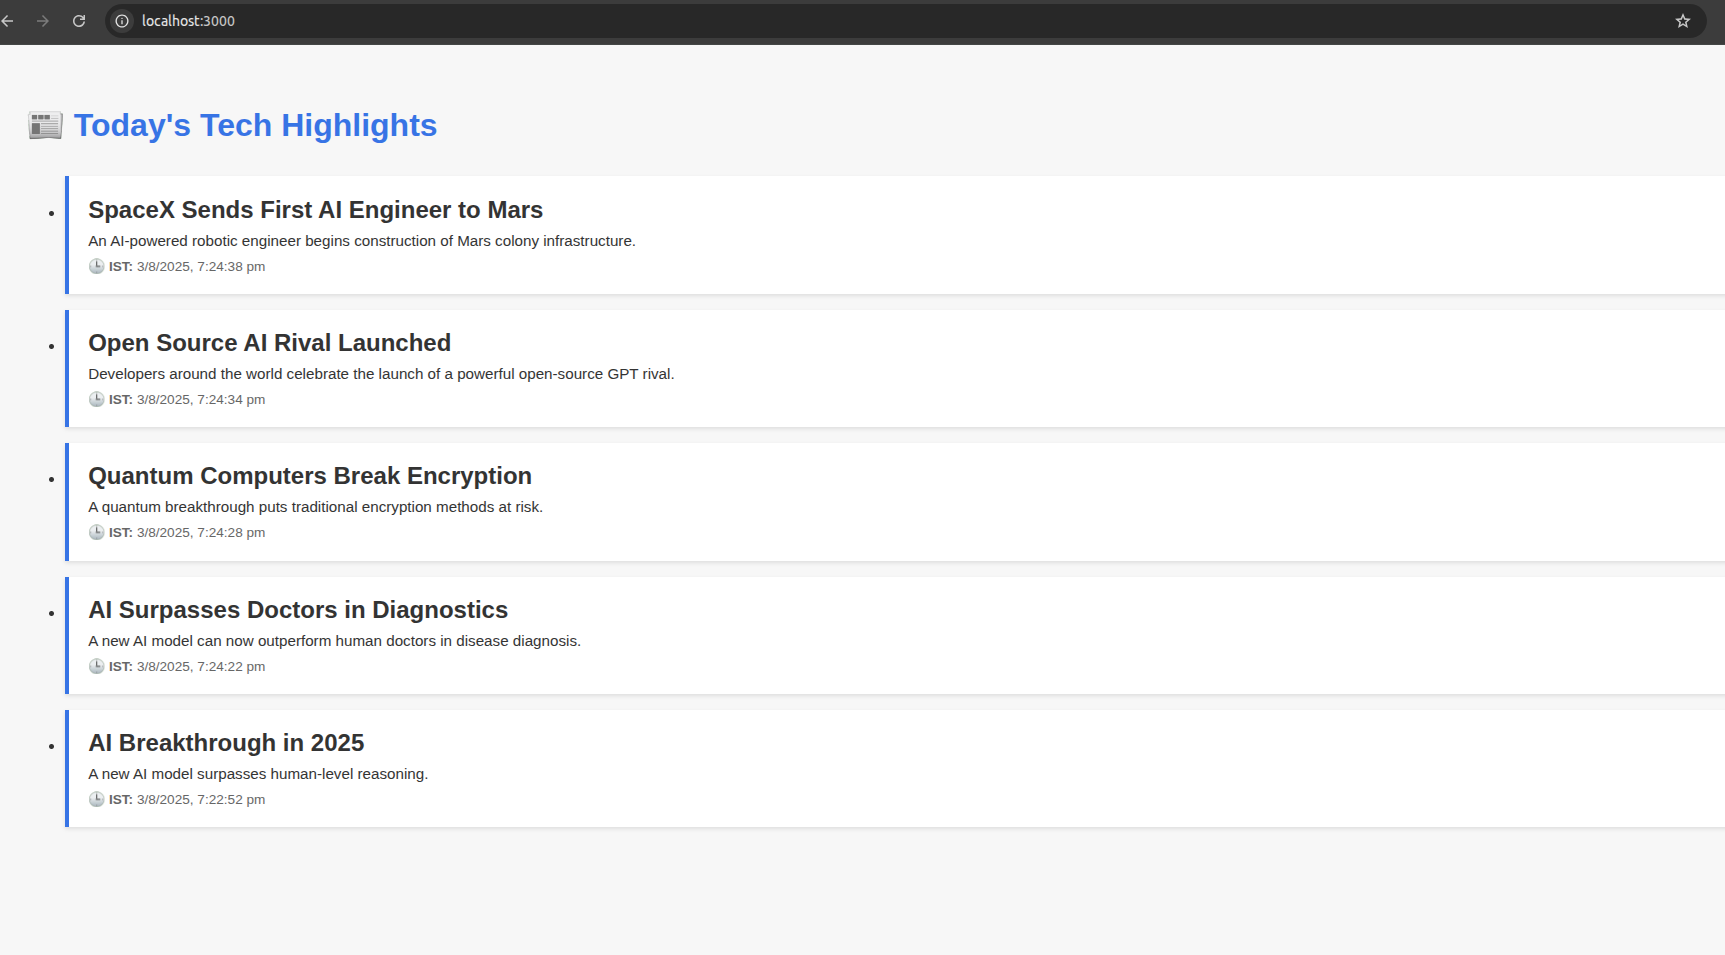
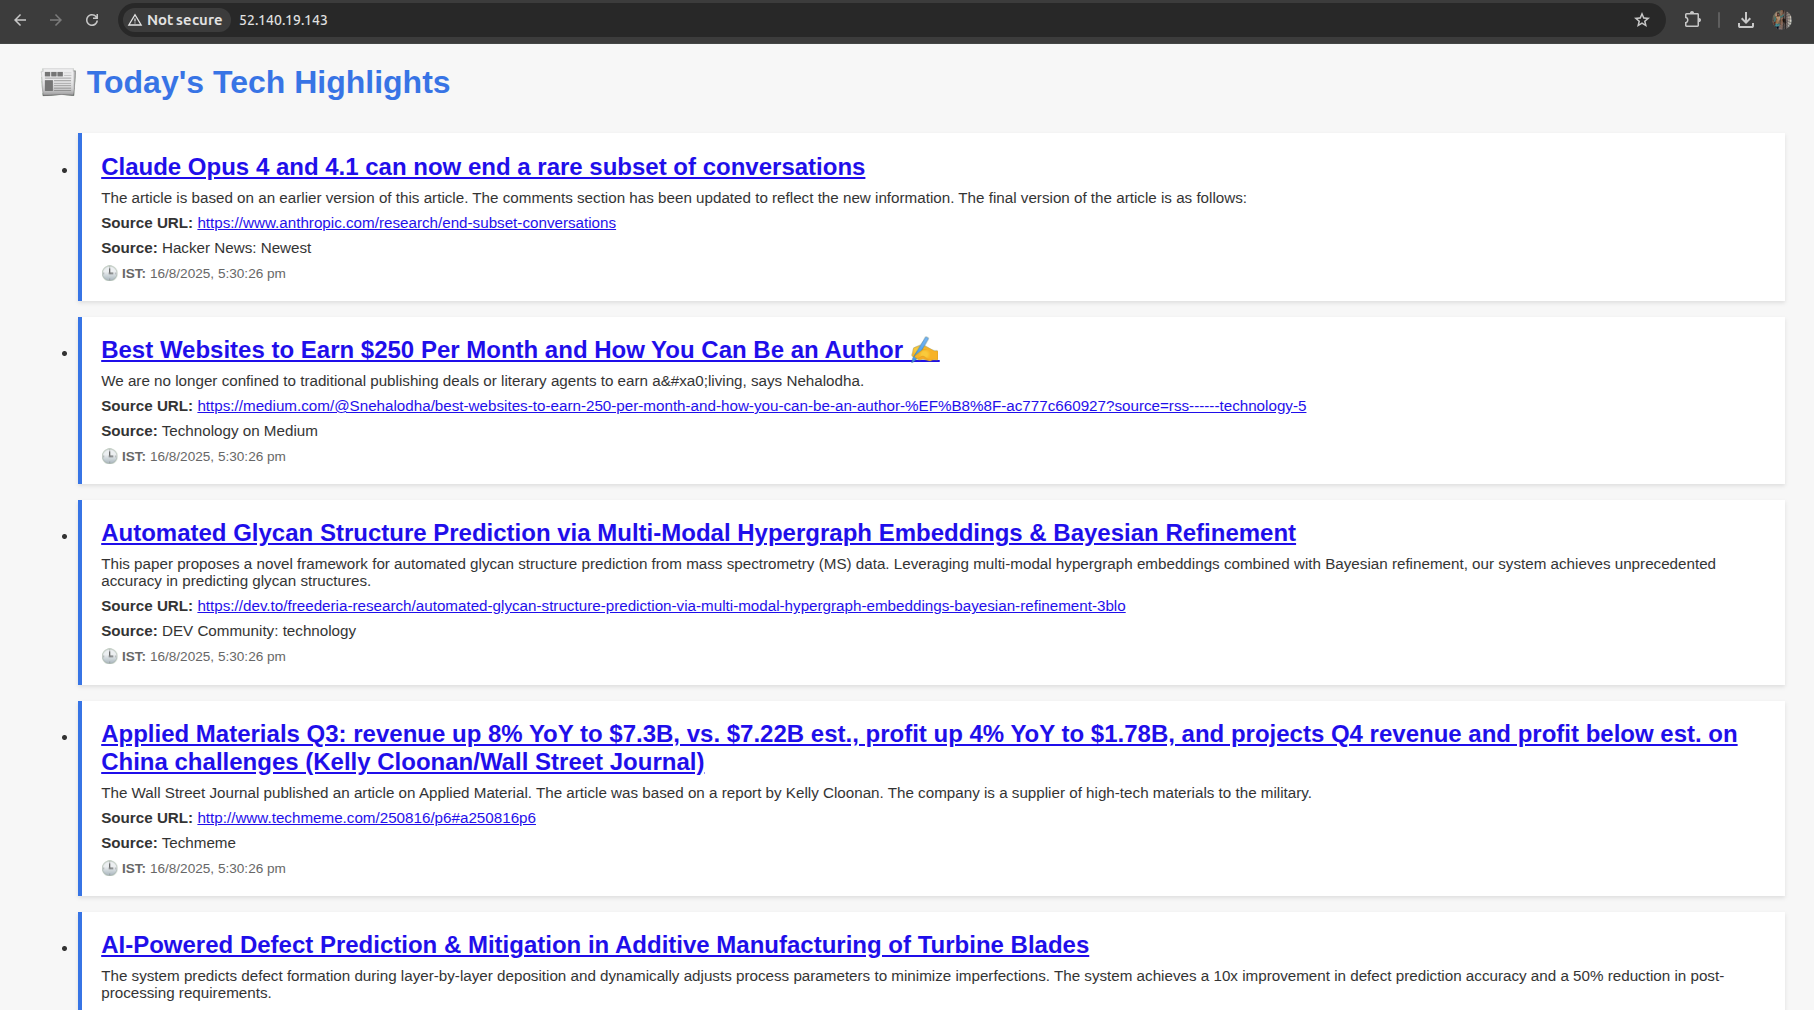
Python and AI Powered NEWS fetch feature

Changed region(s): [[0.0307, 0.334, 0.9525, 0.8806], [0.0, 0.0, 1.0, 0.3037], [0.0307, 0.911, 0.9525, 1.0]]

diff --git a/services/notification-service/server.js b/services/notification-service/server.js
@@ -22,34 +22,6 @@ app.get('/news', async (req, res) => {
   }
 });
 
-// Post news
-
-app.use(express.json());
-
-app.post('/api/news', async (req, res) => {
-  const { title, summary, timestamp } = req.body;
-
-  const message = {
-    title,
-    summary,
-    timestamp: timestamp || new Date().toISOString(),
-  };
-
-  try {
-    await producer.send({
-      topic: 'tech-news',
-      messages: [{ value: JSON.stringify(message) }],
-    });
-    console.log('📤 Sent news to Kafka');
-    res.status(200).json({ status: 'News sent to Kafka' });
-  } catch (error) {
-    console.error('❌ Kafka produce error:', error);
-    res.status(500).json({ error: 'Failed to send news to Kafka' });
-  }
-});
-
-
-
 // Start Express server (for healthcheck)
 app.listen(PORT, () => {
   console.log(`✅ Healthcheck server listening on port ${PORT}`);
@@ -85,6 +57,8 @@ const run = async () => {
       console.log(`🔔 New Tech News Notification!
 📰 Title: ${data.title}
 📝 Summary: ${data.summary}
+🔗 URL: ${data.url || 'N/A'}
+🏢 Source: ${data.source || 'N/A'}
 📅 Timestamp: ${data.timestamp}
 --------------------------`);
 
@@ -92,6 +66,8 @@ const run = async () => {
         await News.create({
           title: data.title,
           summary: data.summary,
+          url: data.url,
+          source: data.source,
           timestamp: data.timestamp || new Date()
         });
         console.log('🗃 News saved to MongoDB');

diff --git a/services/news-service/server.js b/services/news-service/server.js
@@ -29,7 +29,7 @@ const producer = kafka.producer();
 
 // POST /news route
 app.post('/news', async (req, res) => {
-  const { title, summary } = req.body;
+  const { title, summary, url, source } = req.body;
 
   if (!title || !summary) {
     return res.status(400).json({ message: 'Missing title or summary' });
@@ -37,8 +37,10 @@ app.post('/news', async (req, res) => {
 
   try {
     const newsMessage = {
-      title,
-      summary,
+      title: title,
+      summary: summary,
+      url: url,                 // Add the article URL
+      source: source,           // Add source name (e.g., CNN, TechCrunch)
       timestamp: new Date().toISOString(),
     };
 

diff --git a/services/notification-service/models/News.js b/services/notification-service/models/News.js
@@ -2,8 +2,10 @@
 const mongoose = require('mongoose');
 
 const newsSchema = new mongoose.Schema({
-  title: String,
-  summary: String,
+  title: { type: String, required: true },
+  summary: { type: String, required: true },
+  url: { type: String },
+  source: { type: String },
   timestamp: { type: Date, default: Date.now }
 });
 

diff --git a/services/fetch_news/fetchblogs.py b/services/fetch_news/fetchblogs.py
@@ -1,0 +1,70 @@
+import feedparser
+import requests
+from transformers import pipeline
+
+# List of top tech RSS feeds
+RSS_FEEDS = [
+    "https://dev.to/feed/tag/technology",
+    "https://medium.com/feed/tag/technology",
+    "https://hnrss.org/newest?points=100",
+    "https://www.reddit.com/r/technology/.rss",
+    "https://www.techmeme.com/feed.xml"
+]
+
+NEWS_SERVICE_ENDPOINT = "http://52.140.19.143/news"
+
+# Load Hugging Face summarization pipeline
+summarizer = pipeline("summarization", model="facebook/bart-large-cnn")
+
+def fetch_top_blogs(feeds, count=5):
+    articles = []
+    for feed_url in feeds:
+        feed = feedparser.parse(feed_url)
+        for entry in feed.entries[:count]:
+            articles.append({
+                "title": entry.title,
+                "summary": entry.summary if "summary" in entry else "",
+                "url": entry.link,
+                "source": feed.feed.title if "title" in feed.feed else "Unknown"
+            })
+    # Limit to top N overall (sorted by published title for predictability)
+    articles = sorted(articles, key=lambda x: x['title'])[:count]
+    return articles
+
+def summarize(text):
+    if not text:
+        return "No summary available."
+    # Truncate lengthy text for model
+    max_chunk = 750
+    text = text[:max_chunk]
+    summary_output = summarizer(text, max_length=130, min_length=30, do_sample=False)
+    return summary_output[0]['summary_text']
+
+def post_summaries_to_news_service(summaries):
+    for item in summaries:
+        payload = {
+            "title": item["title"],
+            "summary": item["summary"],
+            "url": item["url"],
+            "source": item["source"]
+        }
+        resp = requests.post(NEWS_SERVICE_ENDPOINT, json=payload)
+        resp.raise_for_status()
+
+def main():
+    blogs = fetch_top_blogs(RSS_FEEDS, count=5)
+    news_summaries = []
+    for blog in blogs:
+        # Summarize the blog's summary, fallback to title if summary missing
+        summary = summarize(blog["summary"] or blog["title"])
+        news_summaries.append({
+            "title": blog["title"],
+            "summary": summary,
+            "url": blog["url"],
+            "source": blog["source"],
+        })
+    post_summaries_to_news_service(news_summaries)
+    print("Posted top 5 tech blogs to news service.")
+
+if __name__ == "__main__":
+    main()

diff --git a/services/fetch_news/fetchnews.py b/services/fetch_news/fetchnews.py
@@ -1,0 +1,64 @@
+import os
+import requests
+from transformers import pipeline
+
+
+# Set your keys and endpoints
+NEWSAPI_KEY = "43ce8d93232e4c129d6a34eed381f1dd"
+NEWS_SERVICE_ENDPOINT = "http://20.44.60.109/news"
+
+
+# Load summarization pipeline (this downloads the model the first time)
+summarizer = pipeline("summarization", model="facebook/bart-large-cnn")
+
+
+def fetch_top_tech_news(api_key, count=5, keyword="technology"):
+    url = (
+        f"https://newsapi.org/v2/top-headlines?"
+        f"category=technology&q={keyword}&language=en&pageSize={count}&apiKey={api_key}"
+    )
+    resp = requests.get(url)
+    resp.raise_for_status()
+    return resp.json().get("articles", [])
+
+
+def summarize(text):
+    if not text:
+        return "No summary available."
+    # Hugging Face expects text length <= 1024 tokens (~750 words), truncate if needed
+    max_chunk = 750
+    text = text[:max_chunk]
+    summary_output = summarizer(text, max_length=130, min_length=30, do_sample=False)
+    return summary_output[0]['summary_text']
+
+
+def post_summaries_to_news_service(summaries):
+    for item in summaries:
+        payload = {
+            "title": item["title"],
+            "summary": item["summary"],
+            "url": item["url"],
+            "source": item["source"]
+        }
+        resp = requests.post(NEWS_SERVICE_ENDPOINT, json=payload)
+        resp.raise_for_status()
+
+
+def main():
+    # Change keyword to customize tech topic, e.g., "artificial intelligence" / "programming"
+    articles = fetch_top_tech_news(NEWSAPI_KEY, count=5, keyword="programming")
+    news_summaries = []
+    for art in articles:
+        content = art.get("description") or art.get("content") or ""
+        summary = summarize(content)
+        news_summaries.append({
+            "title": art.get("title"),
+            "summary": summary,
+            "url": art.get("url"),
+            "source": art.get("source", {}).get("name"),
+        })
+    post_summaries_to_news_service(news_summaries)
+
+
+if __name__ == "__main__":
+    main()

diff --git a/README.md b/README.md
@@ -1,6 +1,6 @@
 # 📰 Tech News Microservices App
 
-This is a simple full-stack microservices application built using Node.js, Express, Kafka, MongoDB, and Docker Compose. It allows users to post tech news, which is then distributed via Kafka to a notification service, stored in MongoDB, and displayed in a web UI.
+This is a simple full-stack microservices application built using Node.js, Express, Kafka, MongoDB, and Docker Compose. It allows users to post tech news, which is then distributed via Kafka to a notification service, stored in MongoDB, and displayed in a web UI. Also added Python code to get news using RSS Feed from multiple technical blog site and then post it to News-Service.
 
 ---
 
@@ -13,6 +13,7 @@ This is a simple full-stack microservices application built using Node.js, Expre
 - **web-frontend**: Fetches and displays saved news.
 - **Kafka + Zookeeper**: Message broker infrastructure.
 - **MongoDB**: Persistent storage.
+- **Fetch News**: Python code to fetch news from multiple technical blog sites and also use AI to summarize and post the news.
 
 ---
 
@@ -23,7 +24,8 @@ This is a simple full-stack microservices application built using Node.js, Expre
 - MongoDB
 - Docker & Docker Compose
 - EJS templating for frontend
-
+- Python
+- Hugging Face AI Summarizer to summarize News
 ---
 
 ## 🚀 Getting Started
@@ -231,7 +233,11 @@ kubectl apply -f news-service-deployment.yaml #Make sure your Kafka broker is <n
 kubectl apply -f notification-service-deployment.yaml #Make sure your Kafka broker is <nodeport_IP>:30092
 kubectl apply -f web-frontend-deployment.yaml
 
-
+# docker image build and push to public Repo
+docker build -t news-service:latest .
+docker tag news-service:latest vijaypranesh/news-service:latest
+docker push vijaypranesh/news-service:latest
+  
 # Using AKS for deployment
 
 Create AKS cluster and then
@@ -246,18 +252,23 @@ kubectl apply -f mongodb-deployment.yaml
 kubectl get pods -n infra
 kubectl apply -f news-service-deployment.yaml
 kubectl apply -f notification-service-deployment.yaml
-kubectl apply -f web-frontend-deployment.yam
+kubectl apply -f web-frontend-deployment.yaml
 kubectl apply -f nginx.yml
 
-
 # To test
-curl -X POST http://20.44.60.109/news \
+curl -X POST http://52.140.19.143/news \
   -H "Content-Type: application/json" \
   -d '{
     "title": "Successfully onboarded to AKS",
     "summary": "Finally onboarded my news app to AKS",
+    "url": "www.abc.com"
     "timestamp": "2025-07-30T12:34:00Z"
 }'
+
+# Python code to fetch news from multiple technical blogsites and post it news service is created.
+Before running Python code:
+pip install feedparser requests transformers torch
+
 
 # To resolve minikube tunnel stuck problem
 Delete this file after killing the process
